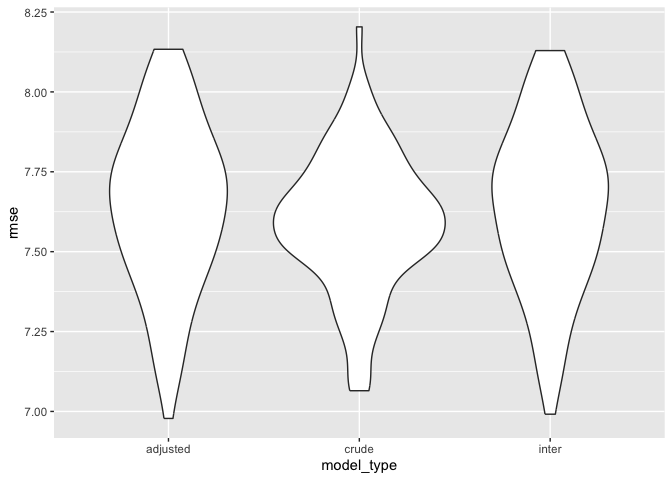
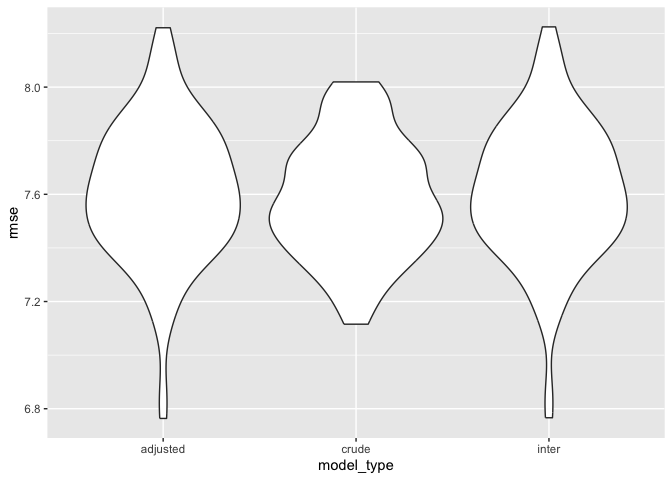
regression models and diagonsis

diff --git a/p8105-Final-model-analysis.md b/p8105-Final-model-analysis.md
@@ -130,7 +130,7 @@ cv_results |>
     ## # A tibble: 1 × 2
     ##   model_type m_rmse
     ##   <chr>       <dbl>
-    ## 1 frozen       9.82
+    ## 1 frozen       10.1
 
 ``` r
 cv_results |> 
@@ -227,9 +227,9 @@ cv_results_sedentary |>
     ## # A tibble: 3 × 2
     ##   model_type m_rmse
     ##   <chr>       <dbl>
-    ## 1 adjusted     7.64
-    ## 2 crude        7.59
-    ## 3 inter        7.64
+    ## 1 adjusted     7.61
+    ## 2 crude        7.58
+    ## 3 inter        7.61
 
 In the context of these models, a lower RMSE indicates a more accurate
 prediction of BMI from the predictors used in the model.
@@ -271,19 +271,19 @@ print(summary_crude_example)
     ## 
     ## Residuals:
     ##     Min      1Q  Median      3Q     Max 
-    ## -17.094  -5.135  -1.277   3.813  61.185 
+    ## -17.227  -5.193  -1.231   3.788  61.054 
     ## 
     ## Coefficients:
     ##                     Estimate Std. Error t value Pr(>|t|)    
-    ## (Intercept)        2.822e+01  1.888e-01  149.44   <2e-16 ***
-    ## sedentary_activity 4.827e-03  4.783e-04   10.09   <2e-16 ***
+    ## (Intercept)        2.834e+01  1.914e-01  148.10   <2e-16 ***
+    ## sedentary_activity 4.842e-03  4.852e-04    9.98   <2e-16 ***
     ## ---
     ## Signif. codes:  0 '***' 0.001 '**' 0.01 '*' 0.05 '.' 0.1 ' ' 1
     ## 
-    ## Residual standard error: 7.522 on 5966 degrees of freedom
-    ##   (3142 observations deleted due to missingness)
-    ## Multiple R-squared:  0.01678,    Adjusted R-squared:  0.01662 
-    ## F-statistic: 101.8 on 1 and 5966 DF,  p-value: < 2.2e-16
+    ## Residual standard error: 7.602 on 5994 degrees of freedom
+    ##   (3114 observations deleted due to missingness)
+    ## Multiple R-squared:  0.01634,    Adjusted R-squared:  0.01618 
+    ## F-statistic: 99.59 on 1 and 5994 DF,  p-value: < 2.2e-16
 
 ## Interpretation of the crude model (activity)
 
@@ -336,3 +336,54 @@ lines(lowess(fitted_values_first_fold, residuals_first_fold), col = "blue")
 ```
 
 ![](p8105-Final-model-analysis_files/figure-gfm/unnamed-chunk-6-1.png)<!-- -->
+
+# Regression Models and Diagnostics
+
+Model1: log(BMI)=freq_fast
+
+``` r
+# Crude model for freq_fast_food
+freq_fast_crude = lm(log(bmi) ~ freq_fast_food, data = obesity)
+
+obesity |> modelr::add_residuals(freq_fast_crude) |> 
+  ggplot(aes(sample = resid))+stat_qq()+stat_qq_line()
+```
+
+    ## Warning: Removed 2345 rows containing non-finite values (`stat_qq()`).
+
+    ## Warning: Removed 2345 rows containing non-finite values (`stat_qq_line()`).
+
+![](p8105-Final-model-analysis_files/figure-gfm/unnamed-chunk-7-1.png)<!-- -->
+
+Model2: log(BMI)=sedentary activity
+
+``` r
+# Crude model for inactivity
+inactivity_crude = lm(log(bmi) ~ sedentary_activity, data = obesity)
+
+obesity |> modelr::add_residuals(inactivity_crude) |> 
+  ggplot(aes(sample = resid))+stat_qq()+stat_qq_line()
+```
+
+    ## Warning: Removed 3879 rows containing non-finite values (`stat_qq()`).
+
+    ## Warning: Removed 3879 rows containing non-finite values (`stat_qq_line()`).
+
+![](p8105-Final-model-analysis_files/figure-gfm/unnamed-chunk-8-1.png)<!-- -->
+
+Model3: log(BMI)=freqence of frozen
+
+``` r
+# Crude model for freq_frozen
+freq_frozen_crude = lm(log(bmi) ~ freq_frozen, data = obesity)
+
+
+obesity |> modelr::add_residuals(freq_frozen_crude) |> 
+  ggplot(aes(sample = resid))+stat_qq()+stat_qq_line()
+```
+
+    ## Warning: Removed 38 rows containing non-finite values (`stat_qq()`).
+
+    ## Warning: Removed 38 rows containing non-finite values (`stat_qq_line()`).
+
+![](p8105-Final-model-analysis_files/figure-gfm/unnamed-chunk-9-1.png)<!-- -->
